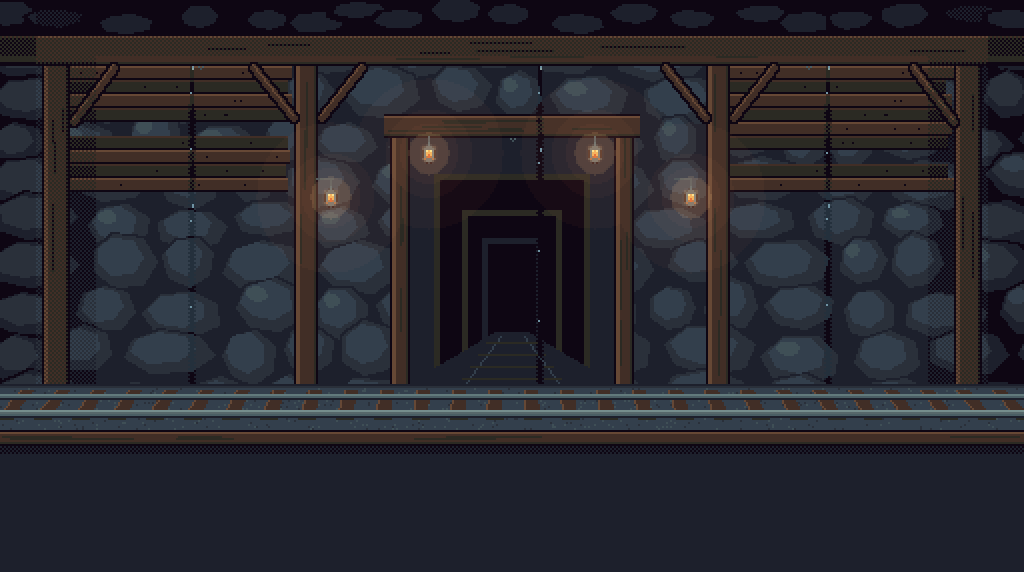
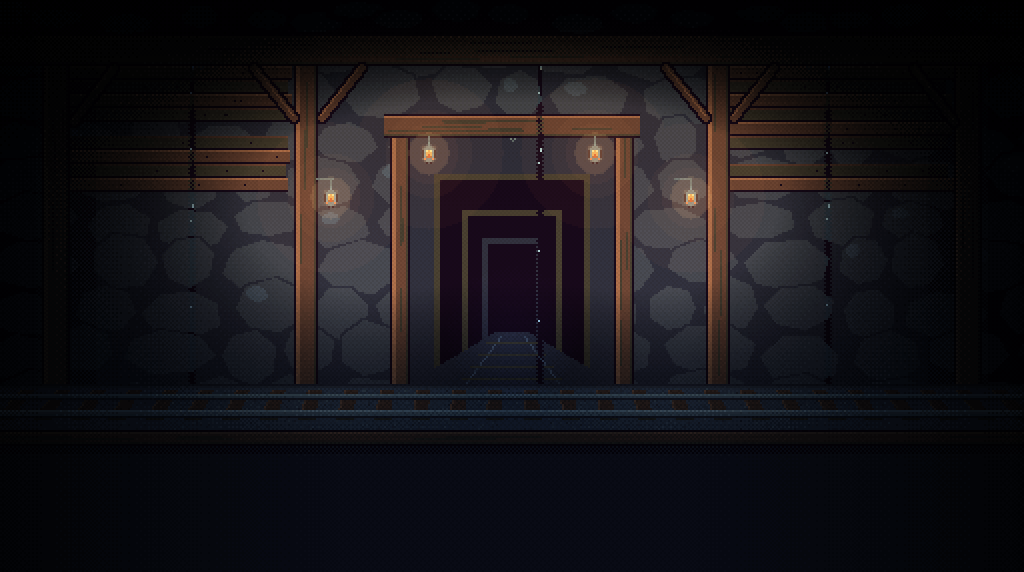
The Hollow Mine, lit only by its lanterns
bg_mine.px.js relights the finished scene: a cold ambient sinking to near-black
toward the roof and far ends, warm pools round each lantern falling off with
distance (squashed above the caps), a faint cold breath down the drift; banded
in dithered steps. Stone facets toned down. The chain strips get the same light
at their painted spots; the dust band is dimmer. Floor ledge unchanged.

diff --git a/art/pxl/bg_mine.px.js b/art/pxl/bg_mine.px.js
@@ -22,6 +22,7 @@ const BEAM = [18, 32]  // the cap beam across the top, rows
 const POSTS = [[22, 12], [148, 10], [354, 10], [478, 12]]  // timber posts: x, width
 const TUNNEL = { x0: 196, x1: 316, top: 58 }  // the drift mouth's timber set, outer edges
 const LANTERNS = [[211, 72], [294, 72], [162, 94], [342, 94]]  // lit lanterns, top-left of their 7x12 body
+const LAMPS = LANTERNS.map(([x, y]) => [x + 3, y + 5])  // the flames' centres, the only light
 const DRIPS = [96, 270, 414]  // x of the leaks under the cap beam
 // The eye bolts the swaying chains (chain_mine_<i>, below) hang from: x of the chain's middle, y of its top row.
 // In LIFE.mine a strip sits at image px (2 * (x - half - 2), 2 * y), half being 1 for a hook, 3 for the lantern.
@@ -31,6 +32,36 @@ const CHAINS = [[100, BEAM[1] + 2], [404, BEAM[1] + 2], [256, TUNNEL.top + 12]]
 function hash(a, b) {
   const s = Math.sin(a * 127.1 + b * 311.7) * 43758.5453
   return s - Math.floor(s)
+}
+
+// Relights the finished scene (lantern flames, "wyoR", keep their colour): a cold ambient that sinks to near-black
+// toward the roof and the far ends, plus a warm pool round each lamp falling off with the square of the distance
+// (squashed above the lamp, whose cap shades the roof).
+// Both are banded in dithered steps so the light lies in flat pixel-art shades, not a smooth airbrush.
+// `at`/`px`: where the canvas sits in the scene and its image px per pxl pixel, so a BackdropLife strip drawn
+// apart (the chains) is lit as it would be on its painted spot.
+const BAYER = [0, 8, 2, 10, 12, 4, 14, 6, 3, 11, 1, 9, 15, 7, 13, 5]
+function light(c, lamps, { amb = 0.45, warm = 2.2, reach = 150, cold = [0.62, 0.74, 1], fire = [1, 0.84, 0.66], step = 0.08, deep = null, at = [0, 0], px = 1 } = {}) {
+  const band = (v, x, y) => Math.floor(v / step + BAYER[(y & 3) * 4 + (x & 3)] / 16) * step
+  for (let y = 0; y < c.h; y++)
+    for (let x = 0; x < c.w; x++) {
+      const p = c.get(x, y) >>> 0
+      if ((p & 255) === 0 || c.is(x, y, "wyoR")) continue
+      const sx = at[0] + x / px, sy = at[1] + y / px
+      const edge = Math.min(1, Math.min(sx, W - sx) / 170), top = Math.min(1, Math.max(0, (sy - 12) / 110))
+      const a = band(amb * (0.25 + 0.75 * edge) * (0.2 + 0.8 * top), sx | 0, sy | 0)
+      let w = 0
+      for (const [lx, ly] of lamps) {
+        const f = Math.max(0, 1 - Math.hypot(sx - lx, (sy - ly) * (sy < ly ? 2 : 1.1)) / reach)
+        w += f * f
+      }
+      w = band(Math.min(1.4, w * warm), sx | 0, sy | 0)
+      let d = 0
+      if (deep) d = band(Math.max(0, 1 - Math.hypot(sx - deep[0], sy - deep[1]) / deep[2]) * 0.5, sx | 0, sy | 0)
+      const ch = (sh, i) => Math.min(255, Math.round(((p >>> sh) & 255) * (a * cold[i] + w * fire[i] + d * cold[i])))
+      const hex = (v) => v.toString(16).padStart(2, "0")
+      c.px(x, y, "#" + hex(ch(24, 0)) + hex(ch(16, 1)) + hex(ch(8, 2)))
+    }
 }
 
 // A faceted stone with a dark rim (so packed stones read apart), its top-left facet lit.
@@ -55,8 +86,8 @@ function wall(c) {
     const ry = 8 + Math.floor(hash(row, 1) * 5)
     for (let x = -16 + Math.floor(hash(row, 2) * 14); x < W + 16; ) {
       const rx = 12 + Math.floor(hash(row, x) * 14)
-      const lit = hash(x, row) > 0.7 ? "4" : null  // most faces turn away from the light
-      rock(c, x + rx, y + ry + Math.round((hash(x, 9) - 0.5) * 6), rx, ry + Math.floor(hash(x, 7) * 4), ["1", "2", "3", lit], hash(x, row) * 6)
+      const lit = hash(x, row) > 0.86 ? "3" : null  // most faces turn away from the light; the lamps do the rest
+      rock(c, x + rx, y + ry + Math.round((hash(x, 9) - 0.5) * 6), rx, ry + Math.floor(hash(x, 7) * 4), ["1", "2", "2", lit], hash(x, row) * 6)
       x += rx * 2 + 1
     }
     y += ry * 2 - 1
@@ -225,13 +256,15 @@ scene("bg_mine", { w: W, h: H, bg: "1" },
   // Away from the lanterns the mine sinks into the dark: the roof, the far ends, the drift.
   layer("dark", { shade: true }, rect(0, 0, W, BEAM[0], "k"), rect(0, 0, 18, LEDGE, "k"), rect(W - 18, 0, 18, LEDGE, "k")),
   layer("dim", { shade: true, density: 0.5 }, rect(0, BEAM[0], W, 10, "k"), rect(18, 0, 30, LEDGE, "k"), rect(W - 48, 0, 30, LEDGE, "k")),
+  // Only the lanterns light it: warm pools that fade into near-black, a faint cold breath from deep in the drift.
+  (c) => light(c, LAMPS, { deep: [256, 166, 34] }),
   glow("oyw", { r: 36, strength: 0.2, bands: 5, color: "#e8743c" }),
   glow("oyw", { r: 9, strength: 0.25, bands: 2, color: "#f6b45e" }))
 
 // A free-hanging chain as a BackdropLife sway strip: 5 frames, each sheared about its top row so the bottom row
 // sits -2..+2 pxl pixels off (frame 2 hangs straight), drawn at 2 image px a pixel, with 2 pxl pixels of room
 // either side. `rows` is the chain's pixel grid; its top row hangs from an eye bolt under the beam.
-function chain(name, rows) {
+function chain(name, rows, [cx, cy], half) {
   const g = rows.trim().split("\n").map((r) => r.trim())
   const w = g[0].length, h = g.length
   anim(name, { w: (w + 4) * 2, h: h * 2, frames: 5, fps: 8 }, (c) => {
@@ -239,6 +272,7 @@ function chain(name, rows) {
       const shift = Math.round(((c.frame - 2) * y) / (h - 1))
       for (let x = 0; x < w; x++) if (g[y][x] !== ".") c.rect((x + 2 + shift) * 2, y * 2, 2, 2, g[y][x])
     }
+    light(c, LAMPS, { at: [cx - half - 2, cy], px: 2 })
   })
 }
 
@@ -269,14 +303,14 @@ k51315k
 .24442.
 ..k2k..`
 
-chain("chain_mine_0", links(10, 4) + "\n" + HOOK)
-chain("chain_mine_1", links(14, 7) + "\n" + DEAD.trim())
-chain("chain_mine_2", links(5, 4) + "\n" + HOOK)
+chain("chain_mine_0", links(10, 4) + "\n" + HOOK, CHAINS[0], 1)
+chain("chain_mine_1", links(14, 7) + "\n" + DEAD.trim(), CHAINS[1], 3)
+chain("chain_mine_2", links(5, 4) + "\n" + HOOK, CHAINS[2], 1)
 
 // Dust hanging in the lantern light over the walkway: a still band two `period`s wide that tiles seamlessly, as
 // BackdropLife scrolls it a pxl pixel at a time. Motes thin out upward; a faint haze lies along the bottom.
 const DUST_PERIOD = 128
-pal({ m: "#9a8a7060", n: "#b8a58490", h: "#4c4a4626" })
+pal({ m: "#6e624e50", n: "#8e7e6270", h: "#24262c26" })  // dim: most of the band hangs out of the lamplight
 sprite("dust", { w: DUST_PERIOD * 2, h: 40 }, (c) => {
   for (let x = 0; x < c.w; x++) {
     const px = x % DUST_PERIOD
